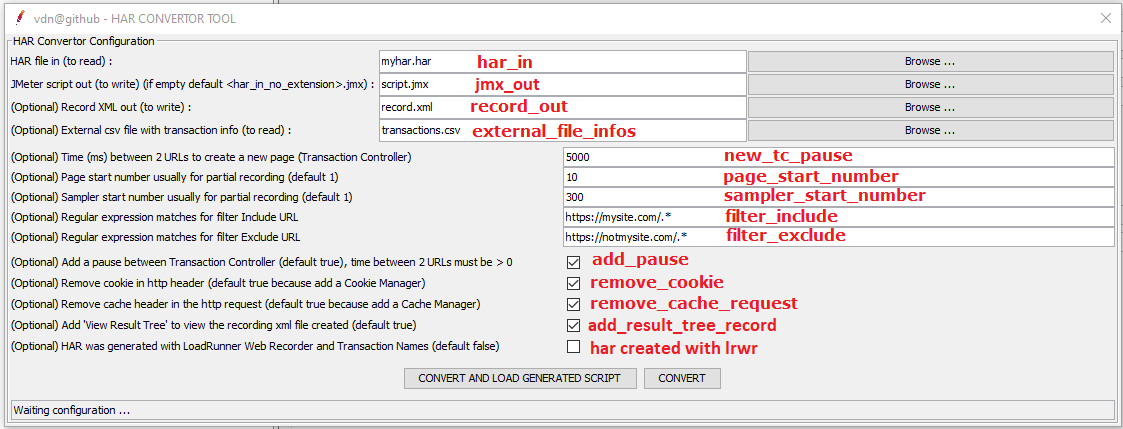
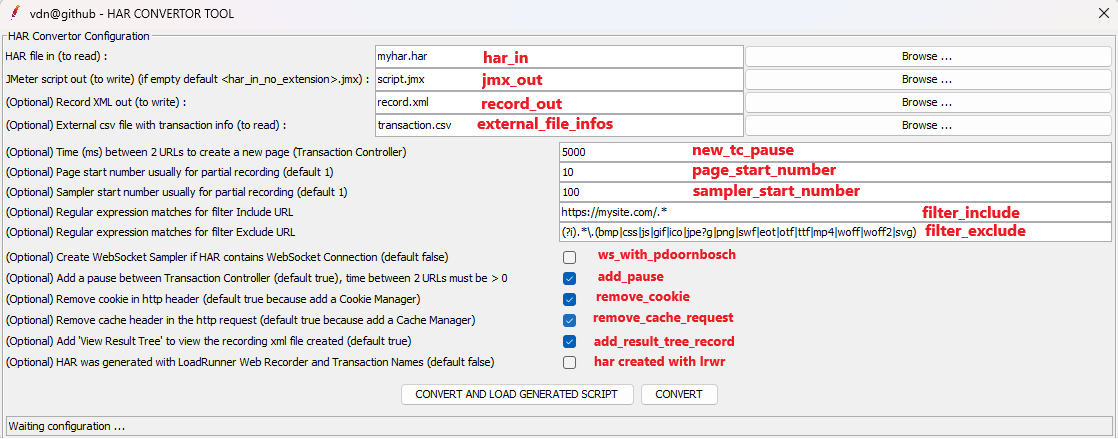
Version 7.0, Use new library har-to-jmeter-convertor 7.0 add manage the websocket connection and messages with 'WebSocket Samplers by Peter Doornbosch', add checkbox for boolean parameter 'ws_with_pdoornbosch' (default unchecked == false).

diff --git a/src/main/java/io/github/vdaburon/jmeterplugins/har/gui/HarConvertorGui.java b/src/main/java/io/github/vdaburon/jmeterplugins/har/gui/HarConvertorGui.java
@@ -18,6 +18,7 @@
 package io.github.vdaburon.jmeterplugins.har.gui;
 
 import io.github.vdaburon.jmeter.har.HarForJMeter;
+
 import org.apache.jmeter.exceptions.IllegalUserActionException;
 import org.apache.jmeter.gui.GuiPackage;
 import org.apache.jmeter.gui.JMeterFileFilter;
@@ -29,19 +30,23 @@ import org.apache.jmeter.gui.util.VerticalPanel;
 import org.apache.jmeter.save.SaveService;
 import org.apache.jorphan.collections.HashTree;
 import org.apache.jorphan.gui.ComponentUtil;
+
 import org.slf4j.Logger;
 import org.slf4j.LoggerFactory;
 
 import javax.swing.*;
+
 import java.awt.*;
 import java.awt.event.ActionEvent;
 import java.awt.event.ActionListener;
 import java.io.File;
+import java.io.Serializable;
 import java.util.HashSet;
 import java.util.Set;
 
 public class HarConvertorGui extends AbstractAction implements
-        ActionListener, UnsharedComponent, MenuCreator {
+        ActionListener, UnsharedComponent, MenuCreator, Serializable {
+
 	private static Set<String> commands = new HashSet<>();
 
     @SuppressWarnings("unused")
@@ -54,7 +59,8 @@ public class HarConvertorGui extends AbstractAction implements
     private static final String BROWSE_EXTERNAL_FILE_IN = "BROWSE_EXTERNAL_FILE_IN";
     private static final String ACTION_CONVERT = "ACTION_CONVERT";
     private static final String ACTION_CONVERT_AND_LOAD_SCRIPT = "ACTION_CONVERT_LOAD";
-    private static final String ACTION_MENU_TOOL = "ACTION_MENU_TOOL"; 
+    private static final String ACTION_MENU_TOOL = "ACTION_MENU_TOOL";
+    private static final String ACTION_CHECKBOX_WEBSOCKET = "ACTION_CHECKBOX_WEBSOCKET";
 
     private EscapeDialog messageDialog;
     
@@ -76,6 +82,7 @@ public class HarConvertorGui extends AbstractAction implements
     private JCheckBox isRemoveCacheRequestHeaderCheckbox;
     private JCheckBox isUseLrwrTransactionNameCheckbox;
     private JCheckBox isAddResultTreeRecordCheckbox;
+    private JCheckBox isWebSocketPDoornboschCheckbox;
 
     private JButton btConvert;
     private JButton btConvertAndLoad;
@@ -100,8 +107,6 @@ public class HarConvertorGui extends AbstractAction implements
         JFrame jfMainFrame = GuiPackage.getInstance().getMainFrame();
         harConvertorGui.showInputDialog(jfMainFrame);
     }
-
-
 
     public void showInputDialog(JFrame parent) {
         setupInputDialog(parent);
@@ -237,6 +242,7 @@ public class HarConvertorGui extends AbstractAction implements
             boolean isRemoveCacheRequestHeader = isRemoveCacheRequestHeaderCheckbox.isSelected();
             boolean isAddResultTreeRecord = isAddResultTreeRecordCheckbox.isSelected();
             boolean isUseLrwrTransactionName = isUseLrwrTransactionNameCheckbox.isSelected();
+            boolean isWebSocketPDoornbosch = isWebSocketPDoornboschCheckbox.isSelected();
 
 
             String lrwr_info = "";
@@ -253,6 +259,7 @@ public class HarConvertorGui extends AbstractAction implements
                 log.info("fileJmxOut=<" + fileJmxOut + ">");
                 log.info("recordXmlOut=<" + recordXmlOut + ">");
                 log.info("isAddResultTreeRecord=<" + isAddResultTreeRecord + ">");
+                log.info("isWebSocketPDoornbosch=<" + isWebSocketPDoornbosch + ">");
                 log.info("createNewTransactionAfterRequestMs=<" + createNewTransactionAfterRequestMs + ">");
                 log.info("isAddPause=<" + isAddPause + ">");
                 log.info("regexFilterInclude=<" + regexFilterInclude + ">");
@@ -264,7 +271,9 @@ public class HarConvertorGui extends AbstractAction implements
                 log.info("externalFileInfoIn=<" + externalFileInfoIn + ">");
                 log.info("****************************************");
 
-                HarForJMeter.generateJmxAndRecord(fileHarIn, fileJmxOut,createNewTransactionAfterRequestMs,isAddPause, isRemoveCookieHeader, isRemoveCacheRequestHeader, regexFilterInclude, regexFilterExclude, recordXmlOut, pageStartNumber, samplerStartNumber, lrwr_info, externalFileInfoIn, isAddResultTreeRecord);
+                HarForJMeter.generateJmxAndRecord(fileHarIn, fileJmxOut,createNewTransactionAfterRequestMs,isAddPause, isRemoveCookieHeader, isRemoveCacheRequestHeader,
+                                                regexFilterInclude, regexFilterExclude, recordXmlOut, pageStartNumber, samplerStartNumber, lrwr_info, externalFileInfoIn,
+                                                isAddResultTreeRecord, isWebSocketPDoornbosch);
 
                 log.info("After HarForJMeter.generateJmxAndRecord");
                 btConvert.setEnabled(true);
@@ -320,6 +329,25 @@ public class HarConvertorGui extends AbstractAction implements
                     externalFileInfoInField, false, new String[] { ".csv" }));
             labelStatus.setText("Waiting configuration ... ");
             labelStatus.setForeground(java.awt.Color.BLACK);
+        }
+
+        if (command.equals(ACTION_CHECKBOX_WEBSOCKET)) {
+            boolean isWSChecked = isWebSocketPDoornboschCheckbox.isSelected();
+            if (isWSChecked) {
+                try {
+                    // check if plugin "WebSocket Samplers by Peter Doornbosch" is present
+                    Class.forName("eu.luminis.jmeter.wssampler.WebsocketGeneralSampler");
+                    log.info("plugin \"WebSocket Samplers by Peter Doornbosch\" is present");
+                } catch (ClassNotFoundException ex) {
+                    labelStatus.setText("You must install the plugin 'WebSocket Samplers by Peter Doornbosch' to open the JMeter generated script file");
+                    labelStatus.setForeground(java.awt.Color.RED);
+                    btConvertAndLoad.setEnabled(false);
+                }
+            } else {
+                labelStatus.setText("Waiting configuration ... ");
+                labelStatus.setForeground(java.awt.Color.BLACK);
+                btConvertAndLoad.setEnabled(true);
+            }
         }
     }
 
@@ -378,6 +406,12 @@ public class HarConvertorGui extends AbstractAction implements
     private JPanel createCheckbox() {
         JPanel panel = new JPanel(new GridLayout(0, 2));
 
+        JLabel isWebSocketPDoornboschLabel = new JLabel("(Optional) Create WebSocket Sampler if HAR contains WebSocket Connection (default false)");
+        isWebSocketPDoornboschCheckbox= new JCheckBox("",false);
+        isWebSocketPDoornboschCheckbox.addActionListener(this);
+        isWebSocketPDoornboschCheckbox.setActionCommand(ACTION_CHECKBOX_WEBSOCKET);
+        isWebSocketPDoornboschCheckbox.setEnabled(true);
+
         JLabel isAddPauseLabel = new JLabel("(Optional) Add a pause between Transaction Controller (default true), time between 2 URLs must be > 0");
         isAddPauseCheckbox= new JCheckBox("",true);
 
@@ -392,6 +426,9 @@ public class HarConvertorGui extends AbstractAction implements
 
         JLabel isUseLrwrTransactionNameLabel = new JLabel("(Optional) HAR was generated with LoadRunner Web Recorder and Transaction Names (default false)");
         isUseLrwrTransactionNameCheckbox= new JCheckBox("",false);
+
+        panel.add(isWebSocketPDoornboschLabel);
+        panel.add(isWebSocketPDoornboschCheckbox);
 
         panel.add(isAddPauseLabel);
         panel.add(isAddPauseCheckbox);

diff --git a/README.md b/README.md
@@ -8,6 +8,8 @@
 
 An article about motivations to create this tool: https://dzone.com/articles/convert-a-har-file-to-jmeter-script
 
+Since version 7.0, **Websocket** is manage with samplers from the plugin "WebSocket Samplers by Peter Doornbosch".
+
 ## GUI interface in the JMeter Tools Menu
 This tool is present in the Menu Tools > vdn@github - HAR Convertor Tool
 
@@ -25,6 +27,7 @@ Parameters are :
 * record_out create the record xml file from the har file (could be open with the Listener View Results Tree) <br/>
   e.g. record_out = record.xml
 * add_result_tree_record, add a View Result Tree to view the Recording XML File Generated (default true), the record_out must be not empty
+* ws_with_pdoornbosch, create WebSocket Sampler if HAR contains WebSocket Connection (ws or wss) and WebSocket Exchange message (default false). Need this JMeter plugin "WebSocket Samplers by Peter Doornbosch" to open generated JMeter script.
 * external_file_infos, external csv file contains information about Timestamp, Transaction Name, date start or end. <br/>
     e.g. external_file_infos = myappli_transactions.csv
 * new_tc_pause time between 2 urls to create a new page (Transaction Controller) (default 5000 = jmeter property value : proxy.pause=5000) <br/>
@@ -130,6 +133,32 @@ The BrowserUp Proxy **active** project is available at this url : <br/>
 
 Note : The BrowserMod Proxy tool is no more active (since september 2017) and it's recommended to migrate to BrowerUp proxy https://github.com/valfirst/browserup-proxy the "valfirst" GitHub username is important.
 
+The BrowserUp Proxy **active** project is available at this url : <br/>
+[Goto the BrowserUp Proxy active project](https://github.com/valfirst/browserup-proxy)
+
+Note : The BrowserMod Proxy tool is no more active (since september 2017) and it's recommended to migrate to BrowerUp proxy https://github.com/valfirst/browserup-proxy the "valfirst" GitHub username/project is important.
+
+## Websocket use the plugin "WebSocket Samplers by Peter Doornbosch"
+If your Har file contains WebSocket Connection and Messages, check the checkbox <code>ws_with_pdoornbosch</code> (set true), this tool will try to create Websocket Samplers in the JMeter script generated and the exchanges in the Recording XML file if you set the record xml file name.
+
+Documentation at : https://bitbucket.org/pjtr/jmeter-websocket-samplers/src/master/
+
+The HAR is record from **Chrome** Browser not Firefox Browser and not Egde Browser (research in har file the attribute : '_webSocketMessages').
+
+Currently limitation to only one websocket connection and multi text messages (send or receive) in this websocket connection (binary message is not tested).
+
+Text message could be on "STOMP" format (https://en.wikipedia.org/wiki/Streaming_Text_Oriented_Messaging_Protocol) or no "STOMP" (simple text).
+
+Need the plugin "WebSocket Samplers by Peter Doornbosch" to open the generated script that contain Websocket Samplers.
+
+This demonstration use the web site : https://websocket.org/tools/websocket-echo-server/
+
+![Script generated with Websocket samplers and xml record messages](doc/images/jmeter_websocket_script_and_xml_record.png)
+
+If you click on the checkbox "Create WebSocket Sampler if HAR contains WebScoket Connection" but the JMeter **have not the plugin** "WebSocket Samplers by Peter Doornbosch" a warning message is display and the button "CONVERT AND LOAD GENERATED SCRIPT" is disable.
+
+![Warning if the plugin "WebSocket Samplers by Peter Doornbosch" is not present](doc/images/har_convertor_tool_gui_check_ws_plugin.png)
+
 
 ## More documentation from har-to-jmeter-convertor CLI Tool
 This plugin use a **library** from the Command Line Interface tool (har-to-jmeter-convertor)<br/>
@@ -152,7 +181,7 @@ usage: io.github.vdaburon.jmeter.har.HarForJMeter [-add_pause &lt;add_pause&gt;]
        [-filter_include &lt;filter_include&gt;] -har_in &lt;har_in&gt; [-help] -jmx_out &lt;jmx_out&gt; [-new_tc_pause &lt;new_tc_pause&gt;]
        [-page_start_number &lt;page_start_number&gt;] [-record_out &lt;record_out&gt;] [-remove_cache_request
        &lt;remove_cache_request&gt;] [-remove_cookie &lt;remove_cookie&gt;] [-sampler_start_number &lt;sampler_start_number&gt;]
-       [-use_lrwr_infos &lt;use_lrwr_infos&gt;]
+       [-use_lrwr_infos &lt;use_lrwr_infos&gt;] [-ws_with_pdoornbosch &lt;ws_with_pdoornbosch&gt;]
 io.github.vdaburon.jmeter.har.HarForJMeter
  -add_pause &lt;add_pause&gt;                             Optional boolean, add Flow Control Action Pause after Transaction
                                                     Controller (default true)
@@ -179,9 +208,13 @@ io.github.vdaburon.jmeter.har.HarForJMeter
  -use_lrwr_infos &lt;use_lrwr_infos&gt;                   Optional, the har file has been generated with LoadRunner Web
                                                     Recorder and contains Transaction Name, expected value :
                                                     'transaction_name' or don't add this parameter
+ -ws_with_pdoornbosch &lt;ws_with_pdoornbosch&gt;         Optional boolean, Manage websocket messages with the JMeter plugin
+                                                    from Peter DOORNBOSH (default false), if true need the plugin from
+                                                    Peter DOORNBOSH to open the generated script
 E.g : java -jar har-for-jmeter-&lt;version&gt;-jar-with-dependencies.jar -har_in myhar.har -jmx_out scriptout.jmx -record_out
 recording.xml -add_result_tree_record true -new_tc_pause 5000 -add_pause true -filter_include "https://mysite/.*"
--filter_exclude "https://notmysite/*" -page_start_number 50 -sampler_start_number 250
+-filter_exclude "https://notmysite/*" -page_start_number 50 -sampler_start_number 250 -ws_with_pdoornbosch false
+
 </pre>
 
 <pre>
@@ -202,13 +235,15 @@ The maven groupId, artifactId and version, this plugin is in the **Maven Central
 ```xml
 <groupId>io.github.vdaburon</groupId>
 <artifactId>har-convertor-jmeter-plugin</artifactId>
-<version>6.1</version>
+<version>7.0</version>
 ```
 
 ## License
 Licensed under the Apache License, Version 2.0
 
 ## Versions
+Version 7.0 date 2025-02-27, Use new library har-to-jmeter-convertor 7.0 add manage the websocket messages with 'WebSocket Samplers by Peter Doornbosch', add checkbox for boolean parameter 'ws_with_pdoornbosch' (default unchecked == false).
+
 Version 6.1 date 2025-01-28, Use new library har-to-jmeter-convertor 6.1 to correct a NullPointerException when creating the Recording XML file.
 
 Version 6.0 date 2024-09-19, Use new library har-to-jmeter-convertor 6.0 for adding 'HTTP(S) Test Script Recorder' and 'View Results Tree' to view the Record.xml file created. Correct save file no url encoded name.
